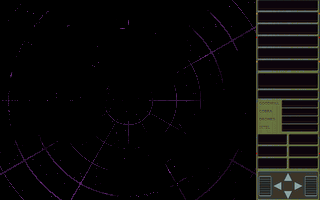
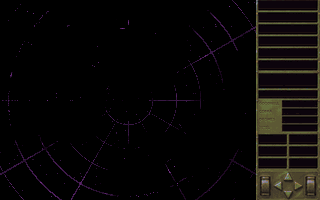
Weathered geoscape panel installed, checked against the layout not warped
The graphics AI returned the plate weathered with a redrawn control cluster.
build/install_panel_art.py takes it back WITHOUT warping - bending art to fit is
what made the old panels a collage - and measures it against make_panel.LAYOUT,
the table the engine's rectangles come from, refusing if anything moved:

  18 recesses   100% dark inside on every one
  6 controls    each arrow/roller drawn inside its click box (24-48% covered,
                against 12-47% on our own plate)
  4 label fields plain paint, 0% dark

Then it cuts GOODWILL/COBRA/DROMES/INTEL back in - engrave_labels() is now a
function of its own for exactly this, and the refactor was checked to produce a
byte-identical plate. The delivery was 1.5% wider than 1:3.125 and is scaled
straight; the arrows are drawn a little larger than their boxes, so a click on
an arrow's very tip misses, anywhere on its body hits.

The raw delivery is kept in art_briefs/returned/ so this can be re-run.

Claude-Session: https://claude.ai/code/session_014dExcDxPaqvFqz4pbppVVZ

diff --git a/tools/oxce-4x/build/install_panel_art.py b/tools/oxce-4x/build/install_panel_art.py
@@ -1,0 +1,131 @@
+#!/usr/bin/env python3
+"""Take a repainted geoscape panel back from the graphics AI and install it.
+
+    python3 build/install_panel_art.py <delivered.png> <PALETTES.DAT> [--write]
+
+The plate went out as panel_for_weathering_384x1200.png with a guide. This is
+the return trip, and it does NOT warp anything: the lesson of the old panels is
+that bending art to fit is what made them a collage. It scales the delivery to
+384 x 1200 and then MEASURES it against LAYOUT in make_panel.py - the same table
+the engine's rectangles come from - and refuses if a slot or a control has
+moved. Only if it passes does it cut the readout labels back in and install.
+
+Checks, all in base pixels against the layout:
+  every recess    still dark inside (text is printed there at run time)
+  every control   the arrow or roller is actually drawn inside its click box
+  label fields    still plain metal, so the engraving lands on bare paint
+"""
+import os
+import sys
+import numpy as np
+from PIL import Image
+
+HERE = os.path.dirname(os.path.abspath(__file__))
+sys.path.insert(0, HERE)
+import make_panel as mp                                    # noqa: E402
+
+K, W, H = mp.K, mp.W, mp.H
+
+
+def crop_panel(im):
+    """The delivery may come on a white or transparent page; keep the panel."""
+    a = np.asarray(im.convert('RGBA')).astype(int)
+    ink = (a[:, :, :3].min(axis=2) < 235) & (a[:, :, 3] > 128)
+    cols = np.nonzero(ink.mean(axis=0) > 0.5)[0]
+    x0, x1 = cols.min(), cols.max() + 1
+    rows = np.nonzero(ink[:, x0:x1].mean(axis=1) > 0.5)[0]
+    y0, y1 = rows.min(), rows.max() + 1
+    return im.convert('RGB').crop((x0, y0, x1, y1)), (x0, y0, x1, y1)
+
+
+def dark_fraction(a, x, y, w, h, inset=1.4):
+    """Share of a rect's interior that is recess-dark, ignoring its bevelled rim."""
+    X0, Y0 = mp.px(x + inset), mp.px(y + inset)
+    X1, Y1 = mp.px(x + w - inset), mp.px(y + h - inset)
+    blk = a[Y0:Y1, X0:X1]
+    return float((blk.sum(axis=2) < 150).mean())
+
+
+def control_fraction(a, x, y, w, h):
+    """Share of a click box covered by a drawn control rather than flat plate.
+
+    Controls are lit metal - arrows and knurled rollers - and stand out from the
+    olive plate by being neutral and bright. Measured as pixels that are both."""
+    blk = a[mp.px(y):mp.px(y + h), mp.px(x):mp.px(x + w)]
+    r, g, b = blk[:, :, 0], blk[:, :, 1], blk[:, :, 2]
+    neutral = (np.abs(r - g) < 28) & (np.abs(g - b) < 34)
+    lum = blk.sum(axis=2)
+    return float((neutral & (lum > 240)).mean())
+
+
+def plain(a, x, y, w, h):
+    """A label field must be bare paint: neither recess-dark nor busy."""
+    blk = a[mp.px(y + 0.5):mp.px(y + h - 0.5), mp.px(x):mp.px(x + w)].astype(float)
+    return float((blk.sum(axis=2) < 150).mean()), float(blk.sum(axis=2).std())
+
+
+def main(src, pal, write):
+    raw = Image.open(src)
+    panel, box = crop_panel(raw)
+    print('delivered %s, panel at x %d..%d y %d..%d (%dx%d)' %
+          (raw.size, box[0], box[2], box[1], box[3], panel.width, panel.height))
+    sx, sy = W * K / panel.width, H * K / panel.height
+    print('scale to 384x1200: x %.3f y %.3f (%.1f%% difference between axes)'
+          % (sx, sy, 100 * abs(sx - sy) / sy))
+    fitted = panel.resize((W * K, H * K), Image.LANCZOS)
+    a = np.asarray(fitted).astype(int)
+
+    fails = []
+    print('\nRECESSES - must be dark inside, text prints here')
+    rects = [(n, x, y, w, h) for n, x, y, w, h in mp.COMMAND]
+    rects += [('speed%d' % i, *r) for i, r in enumerate(mp.SPEED)]
+    rects += [('clock', *mp.CLOCK_WELL), ('date', *mp.DATE_WELL)]
+    rects += [(t.lower(), 2 + mp.EXTRA_LABEL_W, y, 60 - mp.EXTRA_LABEL_W, 8) for t, y in mp.EXTRA]
+    for n, x, y, w, h in rects:
+        f = dark_fraction(a, x, y, w, h)
+        ok = f >= 0.90
+        if not ok:
+            fails.append('recess %s only %.0f%% dark' % (n, 100 * f))
+        print('  %-12s %5.1f%% dark  %s' % (n, 100 * f, 'ok' if ok else 'MOVED OR LIT'))
+
+    print('\nCONTROLS - the drawn control must sit in its click box')
+    for n, x, y, w, h in mp.CONTROLS:
+        f = control_fraction(a, x, y, w, h)
+        ok = f >= 0.12
+        if not ok:
+            fails.append('control %s only %.0f%% covered' % (n, 100 * f))
+        print('  %-12s %5.1f%% covered  %s' % (n, 100 * f, 'ok' if ok else 'NOT ON ITS BOX'))
+
+    print('\nLABEL FIELDS - must be plain metal for the engraving')
+    for t, y in mp.EXTRA:
+        d, sd = plain(a, 3, y, mp.EXTRA_LABEL_W - 2, 8)
+        ok = d < 0.10
+        if not ok:
+            fails.append('label field %s is %.0f%% dark' % (t, 100 * d))
+        print('  %-12s dark %4.1f%%, texture %.0f  %s' % (t, 100 * d, sd, 'ok' if ok else 'NOT PLAIN'))
+
+    if fails:
+        print('\nREFUSED - %d problem(s):' % len(fails))
+        for f in fails:
+            print('   ' + f)
+        return 1
+
+    mp.engrave_labels(fitted)
+    print('\nall checks pass; labels engraved')
+    if not write:
+        fitted.save('/tmp/panel_candidate.png')
+        print('dry run: /tmp/panel_candidate.png (use --write to install)')
+        return 0
+
+    canvas = Image.new('RGBA', (1920, 1200), (0, 0, 0, 0))
+    canvas.paste(fitted.convert('RGBA'), (1536, 0))
+    hi = os.path.join(HERE, '..', 'mod', 'Resources', 'Backgrounds', 'GEOBORD_hi.png')
+    canvas.save(hi)
+    print('installed %s' % os.path.normpath(hi))
+    return 0
+
+
+if __name__ == '__main__':
+    if len(sys.argv) < 3:
+        sys.exit(__doc__)
+    sys.exit(main(sys.argv[1], sys.argv[2], '--write' in sys.argv))

diff --git a/tools/oxce-4x/build/make_panel.py b/tools/oxce-4x/build/make_panel.py
@@ -179,6 +179,39 @@ def screw(d, x, y):
     d.line([X - r + 2, Y, X + r - 2, Y], fill=(44, 48, 38), width=2)
 
 
+def engrave_labels(img):
+    """Cut GOODWILL, COBRA, DROMES and INTEL into the metal of `img`, in place.
+
+    A function of its own so it can be run over artwork that came back from the
+    graphics AI: the plate goes out unlabelled, so weathering cannot smear the
+    lettering, and the labels are cut back in crisp afterwards.
+
+    ONE SIZE THAT FITS THE LONGEST LABEL, NOT A SIZE THAT SUITS THE SHORTEST.
+    Set at a fixed 5 base px, GOODWILL and DROMES ran straight under the value
+    well beside them. The label column is EXTRA_LABEL_W wide and that is a hard
+    edge, so the size is measured down until the longest of the four clears it,
+    and all four are set at that size - four sizes would read as four machines.
+    """
+    size = px(5.4)
+    while size > 6:
+        f = stencil_font(size)
+        if max(f.getbbox(t)[2] for t, _ in EXTRA) <= px(EXTRA_LABEL_W - 3.5):
+            break
+        size -= 1
+    lab = Image.new('L', img.size, 0)
+    for text, y in EXTRA:
+        t = stencil(img, (px(3.2), px(y + 1.3)), text, size, 255)
+        lab = Image.composite(Image.new('L', img.size, 255), lab, t)
+    # The catch goes down FIRST and the groove on top of it, so the lit edge
+    # shows along the bottom of the cut instead of being painted over by it.
+    lit = Image.new('RGBA', img.size, (0, 0, 0, 0))
+    lit.putalpha(lab.filter(ImageFilter.GaussianBlur(1.2)).point(lambda v: int(v * 0.55)))
+    img.paste(Image.new('RGB', img.size, (186, 194, 156)), (0, 3), lit)
+    groove = Image.new('RGBA', img.size, (0, 0, 0, 0))
+    groove.putalpha(lab.point(lambda v: int(v * 0.88)))
+    img.paste(Image.new('RGB', img.size, (22, 25, 18)), (0, 0), groove)
+
+
 def build(labels=True):
     img = Image.new('RGB', (W * K, H * K))
     metal(img)
@@ -196,40 +229,11 @@ def build(labels=True):
     well(d, *CLOCK_WELL)
     well(d, *DATE_WELL)
 
-    # the four new readouts: engraved label in the metal, value well beside it
-    # ONE SIZE THAT FITS THE LONGEST LABEL, NOT A SIZE THAT SUITS THE SHORTEST.
-    #
-    # Set at a fixed 5 base px, GOODWILL and DROMES ran straight under the value
-    # well beside them. The label column is EXTRA_LABEL_W wide and that is a hard
-    # edge, so the size is measured down until the longest of the four clears it,
-    # and all four are then set at that size - four different sizes would read as
-    # four different machines.
-    size = px(5.4)
-    while size > 6:
-        f = stencil_font(size)
-        if max(f.getbbox(t)[2] for t, _ in EXTRA) <= px(EXTRA_LABEL_W - 3.5):
-            break
-        size -= 1
-    lab = Image.new('L', img.size, 0)
+    # the four new readouts: value wells, and the labels engraved beside them
     for text, y in EXTRA:
         well(d, 2 + EXTRA_LABEL_W, y, 60 - EXTRA_LABEL_W, 8, radius=3)
-        if not labels:
-            # The plate handed to the graphics AI for weathering goes out with
-            # NO engraving, so grime laid over GOODWILL cannot smear it; the
-            # labels are cut back in, crisp, after the art comes back.
-            continue
-        t = stencil(img, (px(3.2), px(y + 1.3)), text, size, 255)
-        lab = Image.composite(Image.new('L', img.size, 255), lab, t)
-
-    # engraving: the cut reads as a dark groove with the light catching below it
-    # The catch goes down FIRST and the groove on top of it, so the lit edge
-    # shows along the bottom of the cut instead of being painted over by it.
-    lit = Image.new('RGBA', img.size, (0, 0, 0, 0))
-    lit.putalpha(lab.filter(ImageFilter.GaussianBlur(1.2)).point(lambda v: int(v * 0.55)))
-    img.paste(Image.new('RGB', img.size, (186, 194, 156)), (0, 3), lit)
-    groove = Image.new('RGBA', img.size, (0, 0, 0, 0))
-    groove.putalpha(lab.point(lambda v: int(v * 0.88)))
-    img.paste(Image.new('RGB', img.size, (22, 25, 18)), (0, 0), groove)
+    if labels:
+        engrave_labels(img)
 
     # fasteners and indicator lamps in the metal between the groups
     for y in (72.0, 101.0, 138.0, 175.0):
